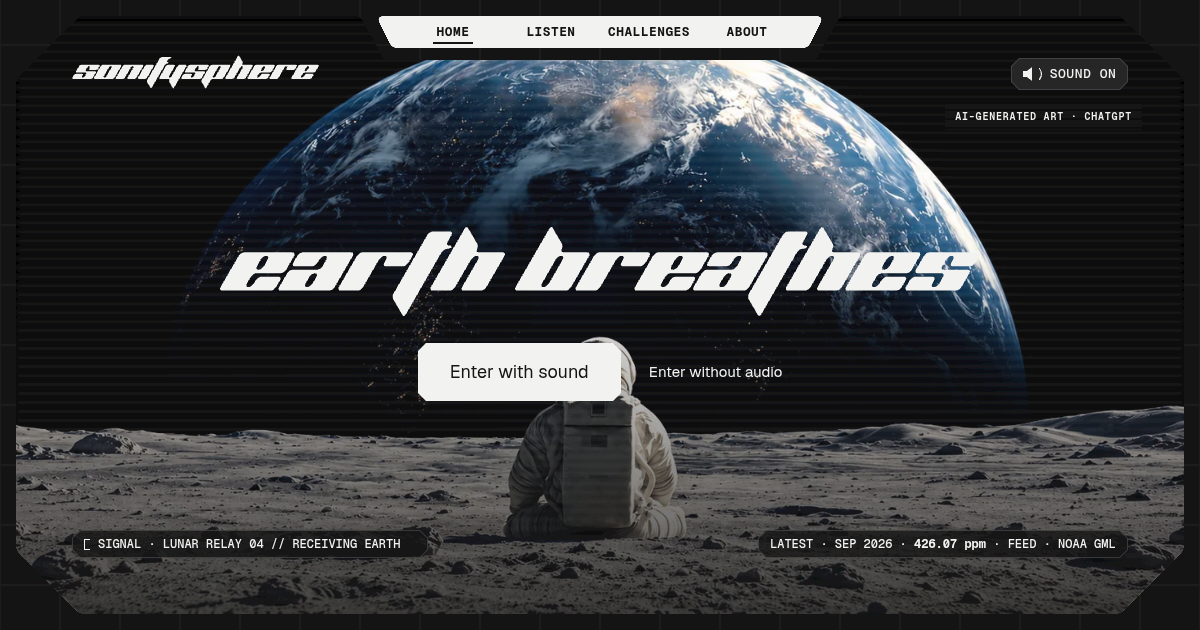
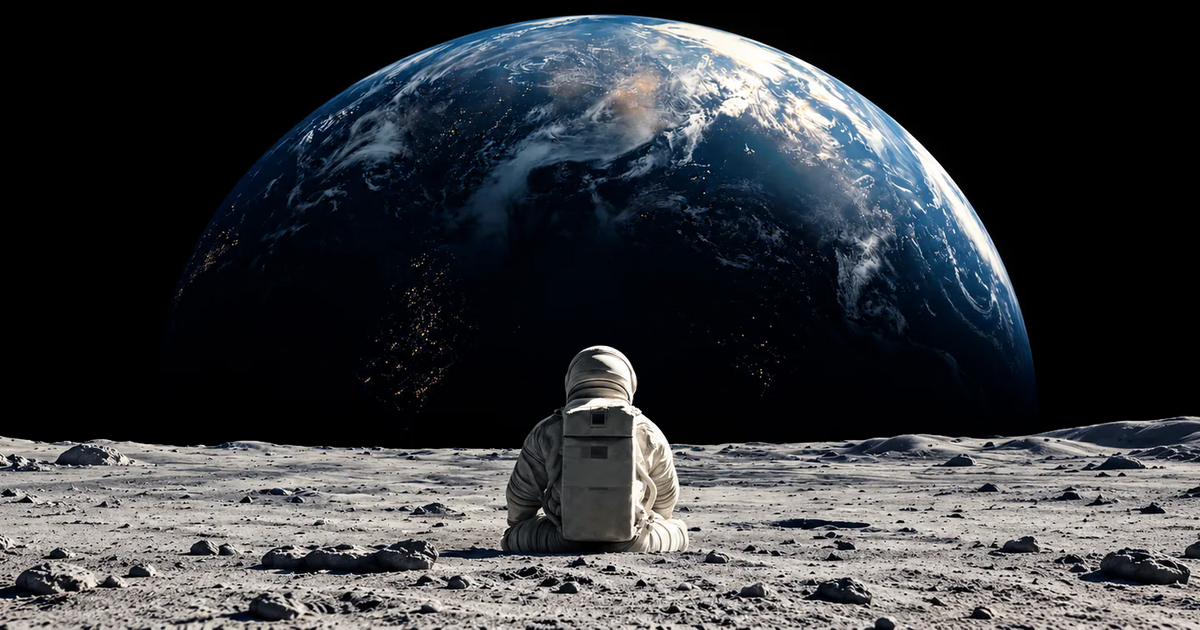
Use the home hero artwork alone as the share image.
Composite the Earth and lunar-astronaut layers into a 1200x630 cover crop and cache-bust the Open Graph and Twitter image URLs.

diff --git a/src/app/layout.tsx b/src/app/layout.tsx
@@ -20,9 +20,10 @@ export const viewport: Viewport = {
 };
 
 const siteUrl = process.env.NEXT_PUBLIC_SITE_URL ?? "https://www.sonifysphere.earth";
+const shareImagePath = "/og-image.png?v=2";
 const shareImage = {
-  url: "/og-image.png",
-  secureUrl: new URL("/og-image.png", siteUrl).href,
+  url: shareImagePath,
+  secureUrl: new URL(shareImagePath, siteUrl).href,
   width: 1200,
   height: 630,
   alt: "SonifySphere hero — Earth breathes, the Earth information jukebox",
